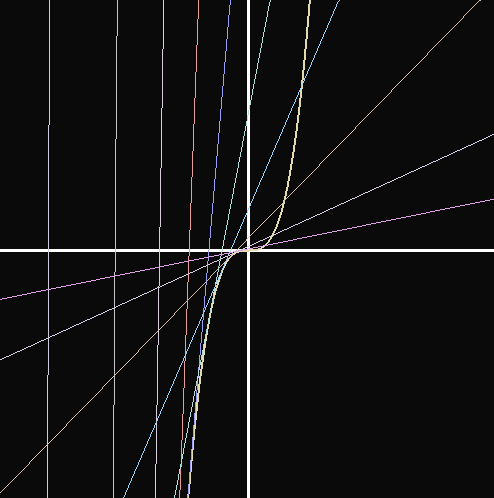
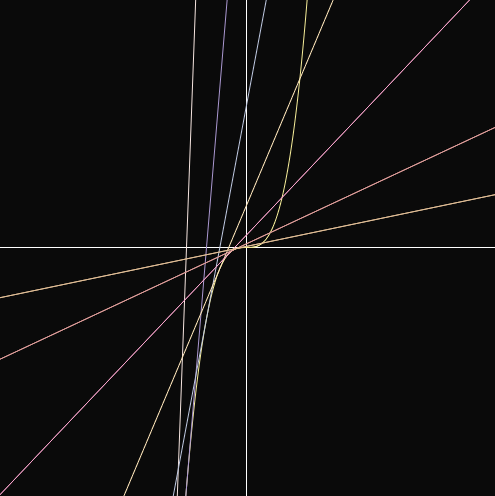
anti aliasing

diff --git a/newton.py b/newton.py
@@ -20,7 +20,7 @@ def plot(screen, winsize, thickness, f, scale):
     for i in range (0, winsize):
         pos = (i, winsize/2 - scale * (f((1/scale) * (i - winsize/2))))
         if i != 0:
-            pygame.draw.line(screen, color,prev_pos,pos, thickness)
+            pygame.draw.aaline(screen, color,prev_pos,pos, thickness)
         prev_pos = pos
         #pixels(screen, color, pos, thickness)
         
@@ -33,9 +33,88 @@ def drawAxis(winsize, screen, axis_thickness):
         [winsize/2, 0], 
         [winsize/2, winsize]]
     
-    pygame.draw.line(screen, (255, 255, 255),p[0],p[1], axis_thickness)
-    pygame.draw.line(screen, (255, 255, 255),p[2],p[3], axis_thickness)
+    pygame.draw.aaline(screen, (255, 255, 255),p[0],p[1], axis_thickness)
+    pygame.draw.aaline(screen, (255, 255, 255),p[2],p[3], axis_thickness)
 
+
+import pygame
+from time import sleep
+import numpy as np
+import math
+from pygame.locals import *
+import random
+import itertools
+
+def pixels(screen, color, pos, thickness):
+    for i in range(-thickness, thickness):
+        for j in range(-thickness, thickness):
+            screen.fill(color, ((pos[0] + i, pos[1] + j), (1, 1)))
+
+def plot(screen, winsize, thickness, f, scale):
+    
+    color = (random.randint(150, 255), random.randint(150, 255), random.randint(150, 255))
+    
+    prev_pos = (0,0)
+    
+    for i in range (0, winsize):
+        pos = (i, winsize/2 - scale * (f((1/scale) * (i - winsize/2))))
+        if i != 0:
+            pygame.draw.aaline(screen, color,prev_pos,pos, thickness)
+        prev_pos = pos
+        #pixels(screen, color, pos, thickness)
+        
+    
+
+
+def drawAxis(winsize, screen, axis_thickness):
+    p = [[0, winsize/2], 
+        [winsize, winsize/2], 
+        [winsize/2, 0], 
+        [winsize/2, winsize]]
+    
+    pygame.draw.aaline(screen, (255, 255, 255),p[0],p[1], axis_thickness)
+    pygame.draw.aaline(screen, (255, 255, 255),p[2],p[3], axis_thickness)
+
+
+
+def newton_iter(f, f1, x0, screen, winsize, thickness, scale):
+    x = x0
+    if f1(x) == 0:
+        return 
+    
+    t = lambda y : (y-x)*f1(x)+f(x)
+    plot(screen, winsize, thickness, t, scale)
+    x = x - f(x) / f1(x)
+    return x
+
+
+
+def runPG(f, f1, x, scale, stop):
+    winsize = 500
+    axis_thickness = 3
+    # Set up the drawing window
+    screen = pygame.display.set_mode([winsize, winsize])
+    screen.fill((10, 10, 10))
+
+    drawAxis(winsize, screen, axis_thickness)
+
+    plot(screen, winsize, 2, f, scale)
+    
+    if f1(x) == 0:
+        print("f'(x) = 0")
+        pygame.quit()
+        return
+        
+    while abs(f(x)) > stop:
+        x = newton_iter(f, f1, x, screen, winsize, 1, scale)
+        print(f(x))
+        pygame.display.flip()
+        sleep(1)
+        
+    # Flip the display
+    pygame.display.flip()
+        
+    pygame.quit()
 
 
 def newton_iter(f, f1, x0, screen, winsize, thickness, scale):
